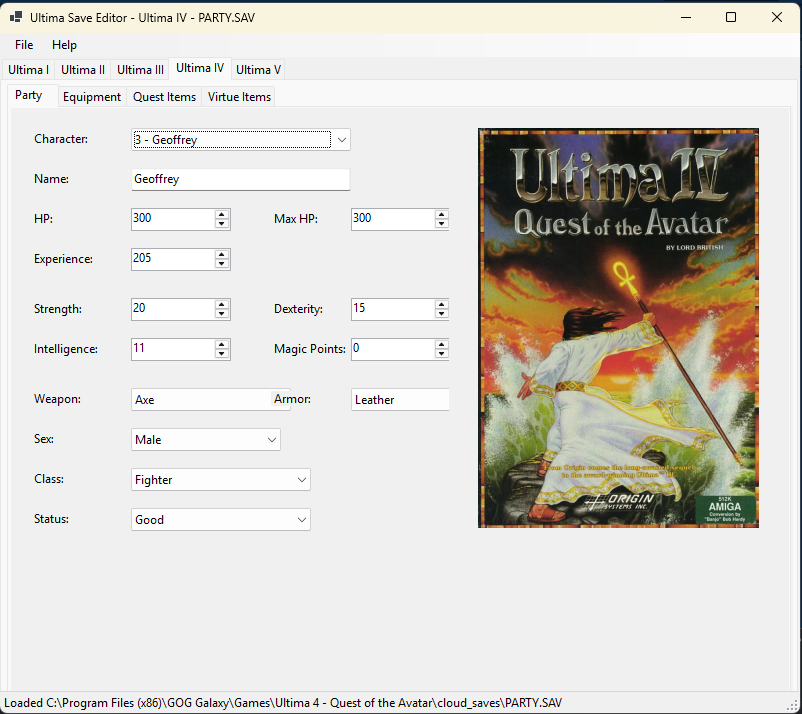
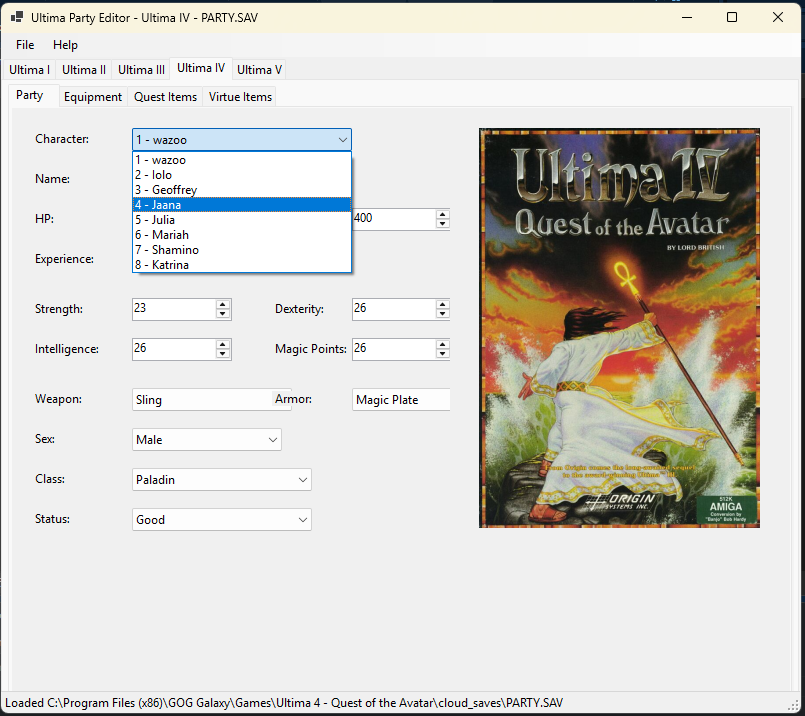
updated readme; screenshot and window title

diff --git a/MainForm.cs b/MainForm.cs
@@ -217,7 +217,7 @@ namespace ultima_party_editor
             if (editor is null)
             {
                 Text =
-                    "Ultima Save Editor";
+                    "Ultima Party Editor";
 
                 return;
             }
@@ -226,14 +226,14 @@ namespace ultima_party_editor
                 editor.Filename is null)
             {
                 Text =
-                    $"Ultima Save Editor - " +
+                    $"Ultima Party Editor - " +
                     $"{editor.GameName}";
 
                 return;
             }
 
             Text =
-                $"Ultima Save Editor - " +
+                $"Ultima Party Editor - " +
                 $"{editor.GameName} - " +
                 $"{Path.GetFileName(editor.Filename)}";
         }

diff --git a/README.md b/README.md
@@ -33,6 +33,19 @@ Sosaria!
 could stay up all night fighting orcs in Britannia.
             
 
+"Moreover, brethren, I declare unto you the gospel which I preached unto you, which also
+ye have received, and wherein ye stand; By which also ye are saved, if ye keep in memory
+what I preached unto you, unless ye have believed in vain.
+
+For I delivered unto you first of all that which I also received, how that Christ died
+for our sins according to the scriptures;
+
+And that he was buried, and that he rose again the third day according to the scriptures:"
+- 1 Corinthians 15:1-4
+
+Resolve your Eternal destination right now! 
+
+
 ## LICENSE
 
 Copyright 2026 Erik Yuzwa
